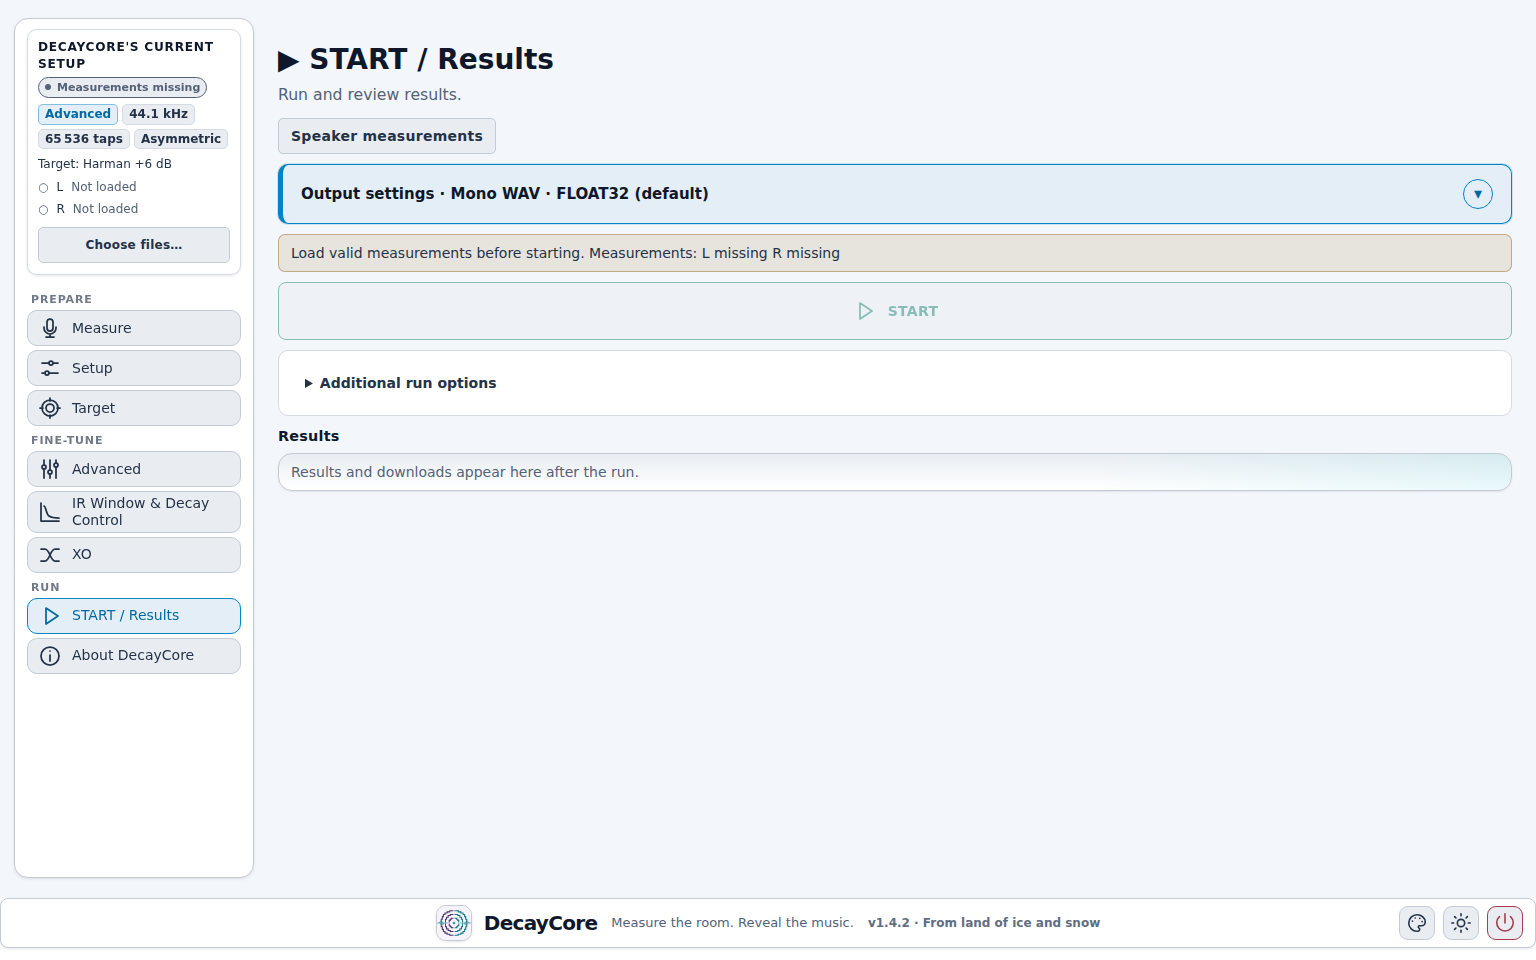
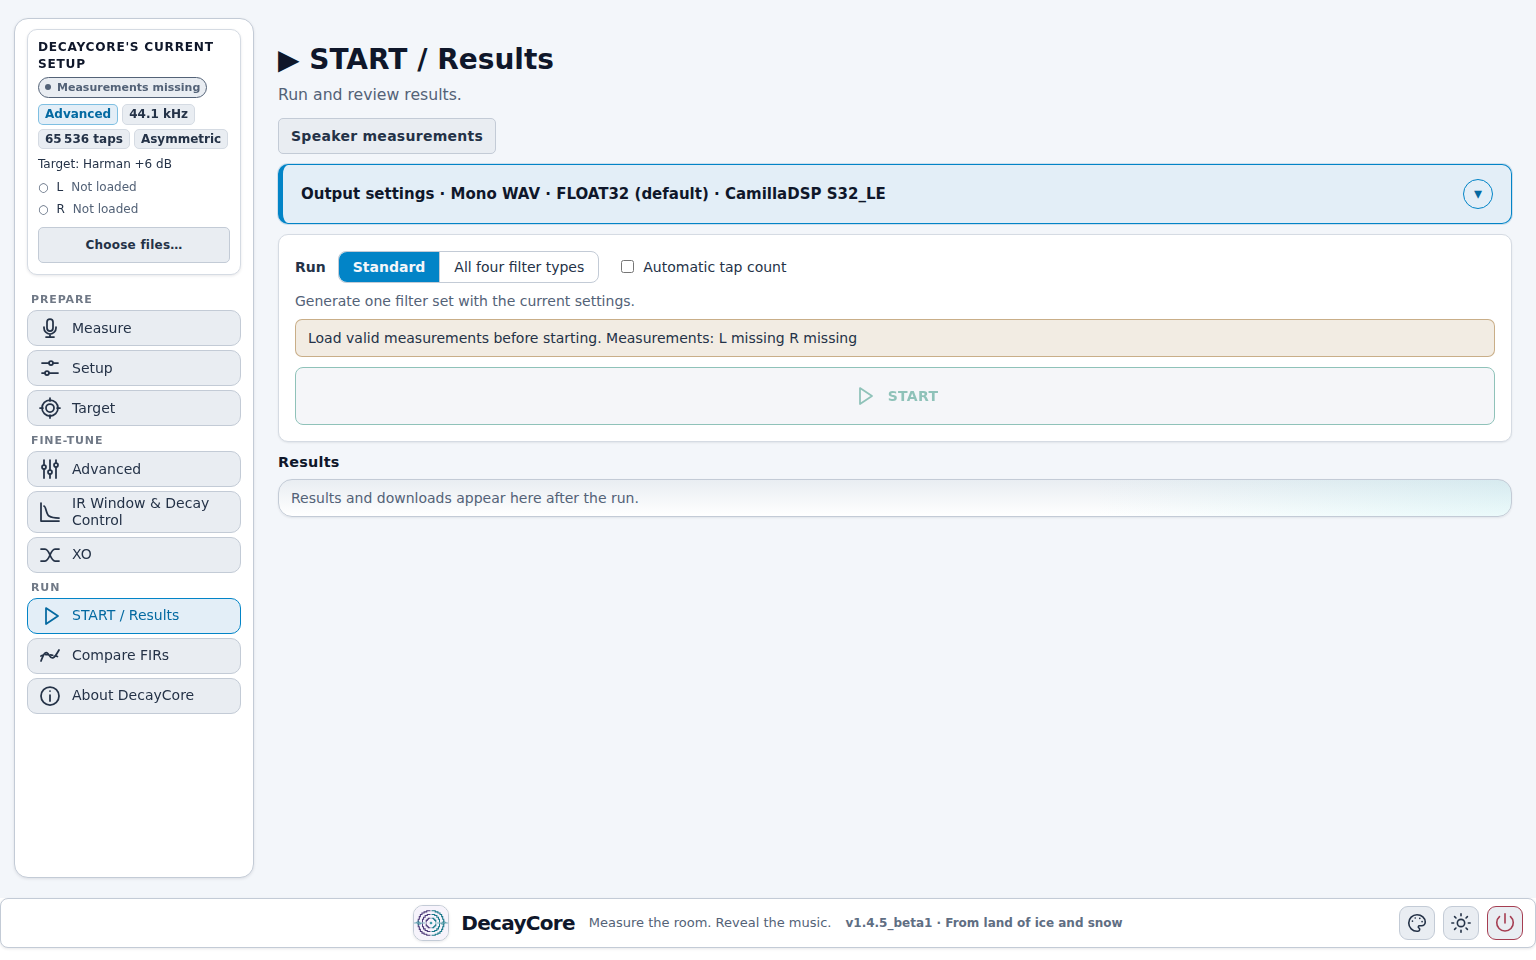
Doc's update

diff --git a/docs/User_Manual.md b/docs/User_Manual.md
@@ -154,8 +154,9 @@ Match the sample rate to the playback pipeline. More taps give better low-freque
 
 ### Automate tap count
 
-In packaged builds, open **Additional run options** on **START / Results** and
-choose **Run with automatic tap count**. This generates filters with
+In packaged builds, tick **Automatic tap count** under **Run** on
+**START / Results** and press **START**. It works with **Standard** and with
+**All four filter types**, where each type gets its own tap count. This generates filters with
 the current settings and then shortens their exported support within a strict
 response-error bound: at every frequency the exported filter stays within 1%
 (about 0.09 dB) of the design response, measured against the local response with
@@ -219,7 +220,7 @@ Excess-phase strength controls how much supported phase error is corrected. **Fu
 
 ### Hybrid IIR + FIR
 
-Hybrid IIR can move supported narrow bass cuts into CamillaDSP peaking filters and let FIR handle the remaining broadband magnitude and phase correction. The exported CamillaDSP configuration must include both IIR and FIR stages; loading only the WAV omits the transferred cuts.
+Hybrid IIR can move supported narrow bass cuts into CamillaDSP peaking filters and let FIR handle the remaining broadband magnitude and phase correction. The exported CamillaDSP configuration must include both IIR and FIR stages; loading only the WAV omits the transferred cuts. Hybrid IIR can't be ticked while Output settings adds Equalizer APO, PipeWire, HLC, Roon or JRiver files, because those play the WAV alone. Ticking one of them unticks Hybrid IIR. While Hybrid IIR is on, the setup panel shows a **Hybrid IIR** chip.
 
 ### Bass Integration
 
@@ -246,7 +247,7 @@ The check only reports; it never changes the filter. With a low crossover, an As
 
 ## 7. Generate and read the result
 
-Open **START / Results** and press **START**. For separate results for all four filter types, open **Additional run options** and choose **Run all four filter types**. This runs the full calculation for each type and takes longer than a single run. During an Automatic run, DecayCore may evaluate targets, search preset candidates, refine finalists, and validate the winner. Repeated runs with the same measurements and relevant settings may reuse compatible cache data.
+Open **START / Results** and press **START**. For separate results for all four filter types, choose **All four filter types** under **Run** first. This runs the full calculation for each type and takes longer than a single run. The choice isn't saved, so DecayCore starts with **Standard** next time. During an Automatic run, DecayCore may evaluate targets, search preset candidates, refine finalists, and validate the winner. Repeated runs with the same measurements and relevant settings may reuse compatible cache data.
 
 Review these items before export:
 
@@ -261,7 +262,7 @@ Automatic ranking compares filters made from the same measurements. It is not a 
 
 ### Compare filters
 
-**Compare filters** on the results page opens **Compare FIRs** with the run selected; after **Run all four filter types**, every result of the batch is selected. The page lists saved runs from the filters folder, newest first, and accepts other FIR WAV files. Choose a channel and press **Create comparison**. The built-in FIR Compare saves an HTML report in `Documents/DecayCore/Analyze` and opens it in your browser.
+**Compare filters** on the results page opens **Compare FIRs** with the run selected; after a run of **All four filter types**, every result of the batch is selected. The page lists saved runs from the filters folder, newest first, and accepts other FIR WAV files. Choose a channel and press **Create comparison**. The built-in FIR Compare saves an HTML report in `Documents/DecayCore/Analyze` and opens it in your browser.
 
 With **Include predicted response and target tracking**, each filter is applied to the current WAV measurement and compared with the target saved with the newest selected run. FIR Compare analyzes the full impulse response without DecayCore's IR window, so its numbers can differ from the results page. Its differences are descriptive, not a ranking.
 
@@ -275,6 +276,9 @@ The result ZIP normally includes:
 - `Target_L_...txt` and `Target_R_...txt`: the target each channel was designed for, as REW-compatible text. An all-rates ZIP holds them once, at the selected sample rate
 - CamillaDSP configuration files
 - Sub FIR and crossover settings when Bass Integration is used
+- `Config_...cfg` and `bypass/Bypass_Config_...cfg` for the HLC convolver, when you tick **HLC convolver file** in Output settings
+
+When you tick the Roon ZIP or the JRiver folder and no Equalizer APO, PipeWire or HLC file, the export leaves out the main FIR WAV files and the CamillaDSP files that load them. The Roon ZIP or the JRiver folder then holds the only copy of the filters.
 
 The default output location is `Documents/DecayCore/filters/<version>/`. If it is not writable, the results page reports the fallback location.
 
@@ -296,7 +300,7 @@ HQPlayer takes one filter per channel and scales it to the playback rate. Export
 
 ### Equalizer APO
 
-Load each WAV through Convolution, verify channel assignment, and add enough preamp reduction to prevent clipping.
+Tick **Equalizer APO file** in Output settings for a ready-made config. Load each WAV through Convolution, verify channel assignment, and add enough preamp reduction to prevent clipping.
 
 ## 9. Listen
 

diff --git a/docs/CHANGELOG.md b/docs/CHANGELOG.md
@@ -10,13 +10,23 @@ This page contains the five latest stable releases. [Older releases and Finnish 
 
 ## [Unreleased]
 
+## [1.4.5_beta2] - 16-11-2026
+
+### Clearer START page
+
+Pick Standard or All four filter types, tick Automatic tap count for either, then press the one START button. Output settings fold into a one-line summary, and short notes show what each player file changes.
+
 ### Filters ready for Roon and JRiver
 
-Tick Roon convolution ZIP or JRiver convolution folder in Output settings. Each holds your filters for every exported rate, so the player switches to the one that matches playback. Roon takes the ZIP as it is. Filters with subwoofer outputs still need CamillaDSP.
+Tick Roon convolution ZIP or JRiver convolution folder in Output settings. Each holds your filters for every exported rate, so the player switches to the one that matches playback. Roon takes the ZIP as it is. The export then skips the CamillaDSP files, so each filter is saved once. Filters with subwoofer outputs still need CamillaDSP.
 
-### One target per filter ZIP
+### Hybrid IIR only with CamillaDSP alone
 
-A ZIP with all common sample rates now holds one target per channel, at the selected rate, instead of one for every rate. Compare FIRs lists the run once.
+Hybrid IIR can't be ticked while Output settings adds Equalizer APO, PipeWire, HLC, Roon or JRiver files. Those play the FIR alone and would miss the IIR cuts. The setup panel shows when Hybrid IIR is on.
+
+### Equalizer APO, PipeWire and HLC files ticked separately
+
+Output settings now has one box each for the Equalizer APO, PipeWire and HLC convolver files. If you had ticked the shared Equalizer APO and PipeWire box, both stay on. HLC files are no longer added unless you tick them.
 
 ### Faster Linear Phase calculation
 
@@ -25,8 +35,6 @@ Linear Phase filters calculate about 25% faster. The filters are unchanged.
 ### Automatic mode goals now pick different filters
 
 Room-safe now favors less boost and gentler correction, Low-ripple the smoothest bass, and Subwoofers the closest match to the target from 20 to 200 Hz. Before, all three picked the same filter 90% of time as Balanced, which is unchanged. Earlier Automatic results are rebuilt.
-
-## [1.4.5_beta1] - 14-11-2026
 
 ### Compare filters inside DecayCore
 

diff --git a/docs/index.md b/docs/index.md
@@ -17,7 +17,7 @@ image: https://vilhovalittu.github.io/DecayCore/pics/DecayCore_logo_light.png
       <p class="eyebrow">Room measurement and FIR correction</p>
       <h1>Measure the room.<br><span>Reveal the music.</span></h1>
       <p class="hero__lead">You know that bass note that seems to turn up on every record? Your room may have a favourite. DecayCore measures your speakers in your listening room and creates FIR correction filters to help bring things back into balance.</p>
-      <p class="hero__copy">Export WAV filters for CamillaDSP, Roon, Equalizer APO, MiniDSP, and other FIR-capable systems.</p>
+      <p class="hero__copy">Export WAV filters for CamillaDSP, Roon, Equalizer APO, and other convolvers that load WAV impulse responses.</p>
       <div class="action-row">
         <a class="button button--primary" href="https://github.com/VilhoValittu/DecayCore/releases/latest">Download DecayCore</a>
         <a class="button" href="{{ '/getting-started/' | relative_url }}">Create your first filter</a>
@@ -41,7 +41,6 @@ image: https://vilhovalittu.github.io/DecayCore/pics/DecayCore_logo_light.png
       <li>CamillaDSP</li>
       <li>Roon</li>
       <li>Equalizer APO</li>
-      <li>MiniDSP</li>
       <li>Other FIR convolvers</li>
     </ul>
   </div>

diff --git a/README.md b/README.md
@@ -18,7 +18,7 @@ You can use automatic target optimization in the packaged app or take control wi
 
 1. **Measure your room.** Use the built-in measurement workflow in the packaged release. Compatible REW-style measurement data can also be used.
 2. **Build your correction.** Choose your target and filter settings, then generate FIR filters from your measurements.
-3. **Load the filters and listen.** Export convolution-ready WAV files for CamillaDSP, Roon convolution, Equalizer APO, MiniDSP, or another FIR-capable DSP engine.
+3. **Load the filters and listen.** Export convolution-ready WAV files for CamillaDSP, Roon convolution, Equalizer APO, or another FIR engine that loads WAV impulse responses. MiniDSP devices need raw `.bin` coefficient files, which DecayCore does not export yet.
 
 The app runs locally on your computer, with controls in your web browser. No cloud service is involved.
 

diff --git a/docs/getting-started.md b/docs/getting-started.md
@@ -81,7 +81,7 @@ Download the result ZIP or open the output folder shown on the results page. It 
 - **CamillaDSP:** use the generated YAML or load the left and right WAV files into convolution filters.
 - **Roon:** tick Roon convolution ZIP in Output settings and load the `Roon_Convolution_...zip` from the export in Convolution.
 - **JRiver:** tick JRiver convolution folder and load the `.cfg` for your rate from the `JRiver` folder.
-- **Equalizer APO:** use the Convolution filter and leave enough preamp headroom.
+- **Equalizer APO:** tick Equalizer APO file for a ready-made config, use the Convolution filter and leave enough preamp headroom.
 
 ### 6. Listen and optionally verify
 
